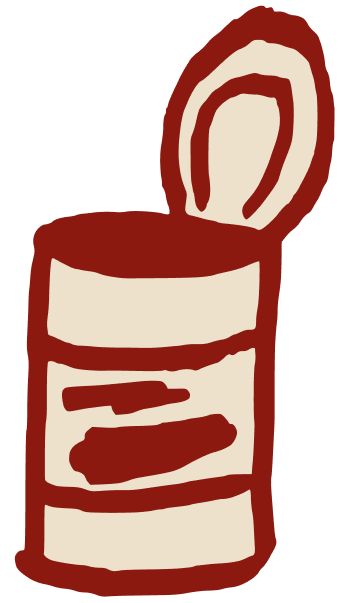
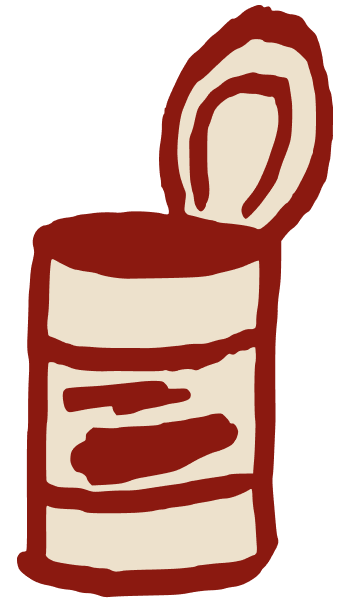
made images repsonsive

diff --git a/src/app/page.tsx b/src/app/page.tsx
@@ -27,7 +27,7 @@ export default function Home() {
   const [leaderboard, setLeaderboard] = useState<LeaderboardEntry[]>([]);
   const [warning, setWarning] = useState<string>("");
   const [enemyHit, setEnemyHit] = useState(false);
-  const [handImage, setHandImage] = useState("/handTriggerUp.svg"); // Changed PNG to SVG
+  const [handImage, setHandImage] = useState("/thumbsUp.svg"); // Changed PNG to SVG
 
   // Inside the component:
   const userScoreRef = useRef<HTMLLIElement | null>(null);
@@ -57,9 +57,9 @@ export default function Home() {
         ...prev,
         { x: event.clientX - rect.left, y: event.clientY - rect.top, id: bangId, rotation },
       ]);
-      setHandImage("/handDown.svg"); // Changed PNG to SVG
+      setHandImage("/thumbsDown.svg"); // Changed PNG to SVG
       setTimeout(() => {
-        setHandImage("/handUp.svg"); // Changed PNG to SVG
+        setHandImage("/thumbsUp.svg"); // Changed PNG to SVG
       }, 250);
 
       setTimeout(() => {
@@ -96,13 +96,13 @@ export default function Home() {
 
       const { clientWidth: frameWidth, clientHeight: frameHeight } = gameFrame;
       enemy.style.position = "absolute";
-      enemy.style.width = "84px";
-      enemy.style.height = "150px";
+      enemy.style.width = "clamp(51px, 9.7vw, 67px)";
+      enemy.style.height = "clamp(91px, 17.3vw, 120px)";
       enemy.style.backgroundImage = `url(${enemyImages[currentEnemy % enemyImages.length]})`; // Using SVG
-      enemy.style.backgroundSize = "cover";
+      enemy.style.backgroundSize = "contain";
       enemy.style.backgroundPosition = "center";
-      enemy.style.left = `${Math.random() * (frameWidth - 84)}px`;
-      enemy.style.top = `${Math.random() * (frameHeight - 150)}px`;
+      enemy.style.left = `${Math.random() * (frameWidth - 67)}px`;
+      enemy.style.top = `${Math.random() * (frameHeight - 120)}px`;
       setSpawnTime(performance.now());
     };
 
@@ -169,14 +169,8 @@ export default function Home() {
         </div>
 
         <div
-          style={{
-            position: "absolute",
-            bottom: "-5vh",
-            right: "-7vw",
-            width: "37vw",
-            height: "auto",
-            transition: "transform ease-in 200ms",
-          }}
+          className={styles.handWrapper}
+
         >
           <Image
             src={handImage}
@@ -184,7 +178,7 @@ export default function Home() {
             layout="intrinsic"
             width={450}
             height={438}
-            style={{ width: "20vw", height: "auto", objectFit: "contain" }}
+            className={styles.hand}
           />
         </div>
         <div id="gameFrame" className={styles.gameFrame} >
@@ -201,13 +195,13 @@ export default function Home() {
                   key={bang.id}
                   className={styles.bangMarker}
                   style={{
-                    left: bang.x - 103,
-                    top: bang.y - 103,
+                    left: bang.x - 60,
+                    top: bang.y - 60,
                     transform: `rotate(${bang.rotation}deg)`,
                     ...({ "--rotation": `${bang.rotation}deg` } as React.CSSProperties),
                   }}
                 >
-                  <Image src={"/bang.svg"} height={206} width={206} alt="bang" /> {/* Updated to SVG */}
+                  <Image src={"/bang.svg"} height={120} width={120} alt="bang" /> {/* Updated to SVG */}
                 </div>
               ))}
             </>

diff --git a/src/app/page.module.css b/src/app/page.module.css
@@ -200,3 +200,41 @@
     flex-direction: column-reverse;
   }
 }
+.handWrapper {
+  position: absolute;
+  bottom: 0;
+  right: 0;
+  width: auto;
+  height: 50%;
+  aspect-ratio: 473.95/461;
+  transition: transform ease-in 200ms;
+}
+.hand {
+  width: 100%;
+  height: 100%;
+  margin-left: 10%;
+  margin-top: 10%;
+  object-fit: contain;
+}
+@media screen and (max-width: 599px) {
+  .handWrapper {
+    right: none;
+    left: 50%;
+
+  }
+  .hand {
+    margin-left: 10%;
+    margin-top: 0%;
+  }
+}
+@media screen and (max-width: 599px) {
+  .handWrapper {
+
+    bottom: none;
+    top: 60%;
+  }
+  .hand {
+    margin-left: 10%;
+    margin-top: 0%;
+  }
+}
